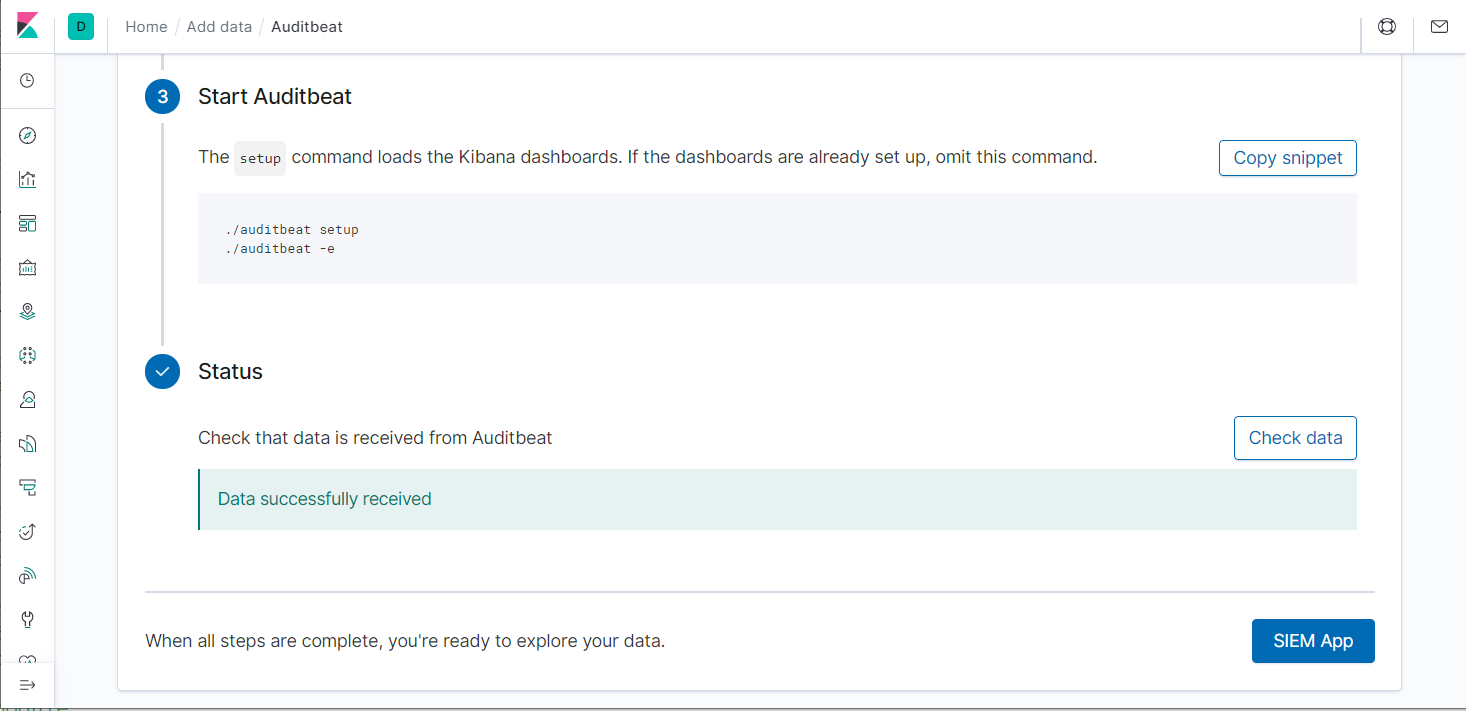
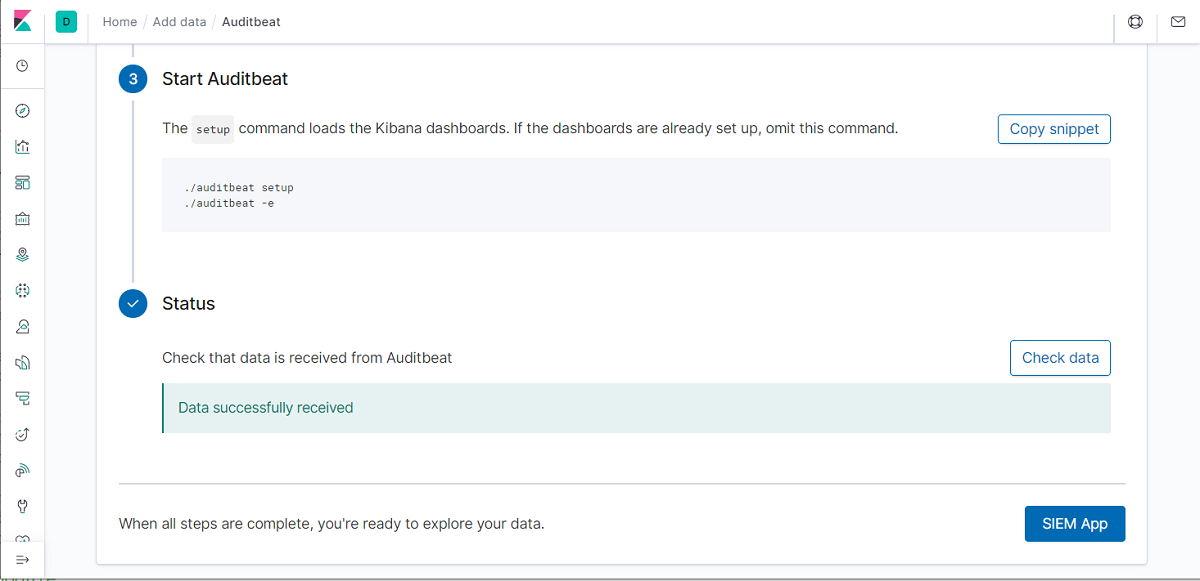
Added Auditbeat
Added Auditbeat

diff --git a/README.md b/README.md
@@ -12,6 +12,8 @@ These files have been tested and used to generate a live ELK deployment on Azure
 - [Config File: filebeat-config.yml](Ansible/filebeat-config.yml)
 - [Playbook File: metricbeat-playbook.yml](Ansible/metricbeat-playbook.yml)
 - [Config File: metricbeat-config.yml](Ansible/metricbeat-config.yml)
+- [Playbook File: auditbeat-playbook.yml](Ansible/auditbeat-playbook.yml)
+- [Config File: auditbeat-config.yml](Ansible/auditbeat-config.yml)
 
 This document contains the following details:
 - Description of the Topology
@@ -89,6 +91,9 @@ These Beats allow us to collect the following information from each machine:
 
 - `Metricbeat` monitors the behaviour and usage of system resources, which helps increase the availability and reliability of the system and allows IT teams to quickly respond to any fault if they occour. Below is an example of Metricbeat showing an increase of CPU, memory and Network bandwidth usage during a wget-DoS attack.
 ![Screenshot of Metricbeat dashboard](Images/metricbeat_wget-DoS.png)
+
+- `Auditbeat` collects auditing data from the hosts. These include processes, users, logins sockets information, file accesses, and more. Below is an example of Auditbeat overview.
+![Screenshot of Auditbeat dashboard](Images/auditbeat_overview.png)
 
 
 ### Using the Playbook
